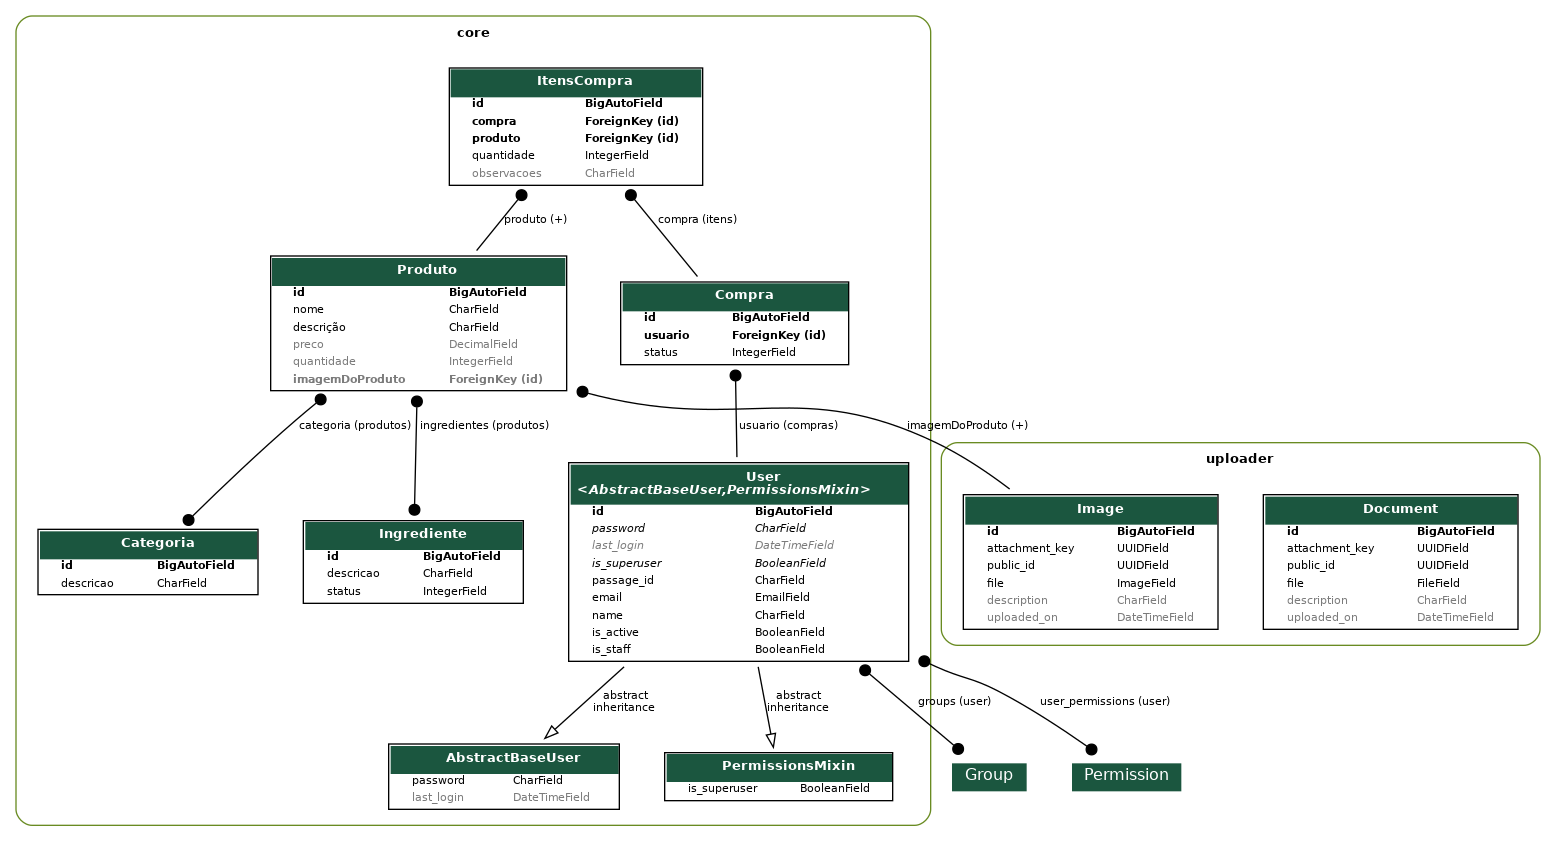
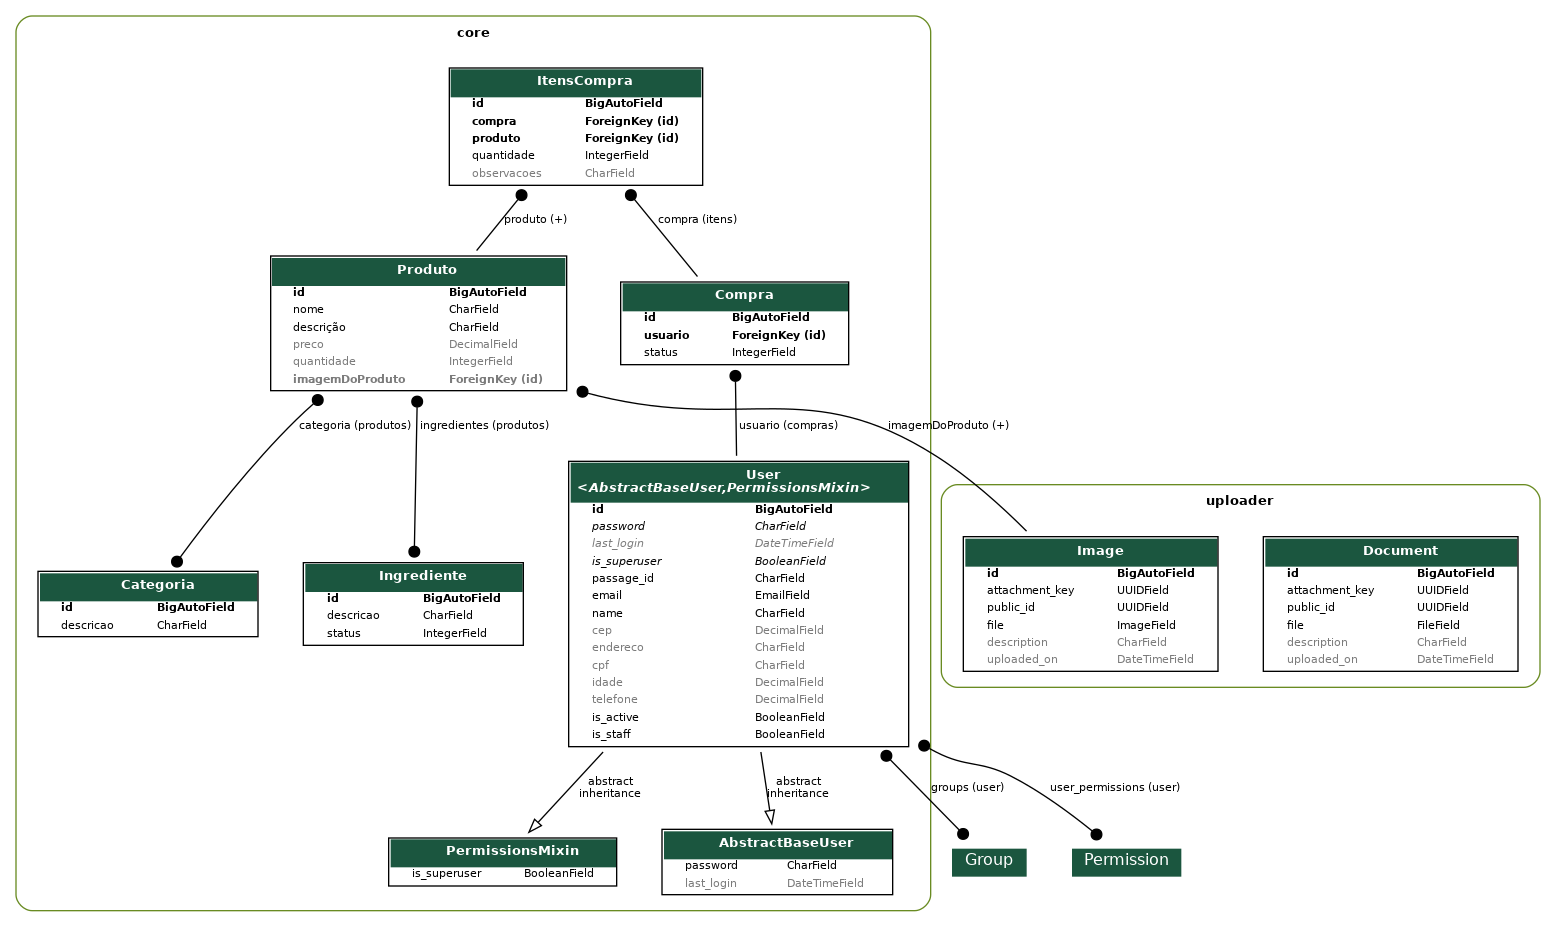
criação de campo para informações adicionais

Changed region(s): [[0.0, 0.0, 0.9871, 0.9893], [0.0, 0.5565, 0.3393, 0.7111]]

diff --git a/core/migrations/0020_user_cep_user_cpf_user_endereco_user_idade_and_more.py b/core/migrations/0020_user_cep_user_cpf_user_endereco_user_idade_and_more.py
@@ -1,0 +1,38 @@
+# Generated by Django 5.1.1 on 2024-09-30 14:26
+
+from django.db import migrations, models
+
+
+class Migration(migrations.Migration):
+
+    dependencies = [
+        ("core", "0019_ingrediente_status"),
+    ]
+
+    operations = [
+        migrations.AddField(
+            model_name="user",
+            name="cep",
+            field=models.DecimalField(blank=True, decimal_places=8, max_digits=8, null=True),
+        ),
+        migrations.AddField(
+            model_name="user",
+            name="cpf",
+            field=models.CharField(blank=True, max_length=11, null=True),
+        ),
+        migrations.AddField(
+            model_name="user",
+            name="endereco",
+            field=models.CharField(blank=True, max_length=255, null=True),
+        ),
+        migrations.AddField(
+            model_name="user",
+            name="idade",
+            field=models.DecimalField(blank=True, decimal_places=2, max_digits=2, null=True),
+        ),
+        migrations.AddField(
+            model_name="user",
+            name="telefone",
+            field=models.DecimalField(blank=True, decimal_places=11, max_digits=11, null=True),
+        ),
+    ]

diff --git a/core/models/user.py b/core/models/user.py
@@ -43,6 +43,12 @@ class User(AbstractBaseUser, PermissionsMixin):
     passage_id = models.CharField(max_length=255, unique=True)
     email = models.EmailField(max_length=255, unique=True)
     name = models.CharField(max_length=255)
+    cep = models.CharField(max_length=9, null=True, blank=True)
+    endereco = models.CharField(max_length=255, null=True, blank=True)
+    cpf = models.CharField(max_length=14, null=True, blank=True)
+    idade = models.IntegerField(null=True, blank=True)
+    telefone = models.CharField(max_length=11, null=True, blank=True)
+
     is_active = models.BooleanField(default=True)
     is_staff = models.BooleanField(default=False)
 

diff --git a/core/admin.py b/core/admin.py
@@ -18,6 +18,7 @@ class UserAdmin(BaseUserAdmin):
     fieldsets = (
         (None, {"fields": ("email", "password")}),
         (_("Personal Info"), {"fields": ("name", "passage_id")}),
+        (_("Additional Info"), {"fields": ("cep", "endereco", "cpf", "idade", "telefone")}),
         (
             _("Permissions"),
             {
